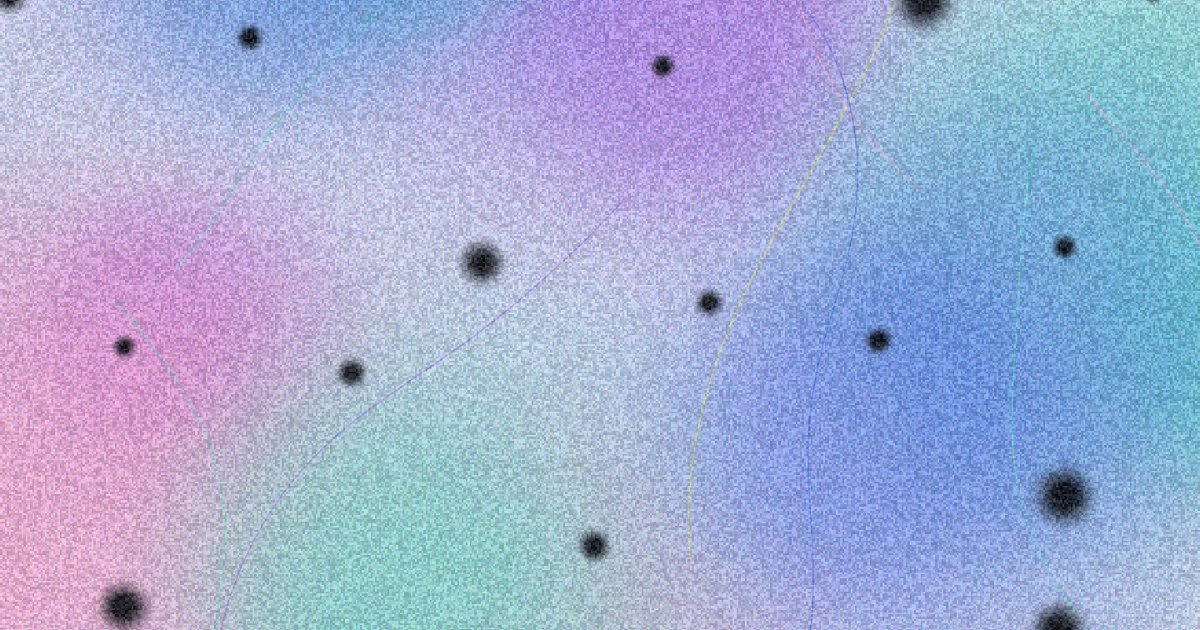
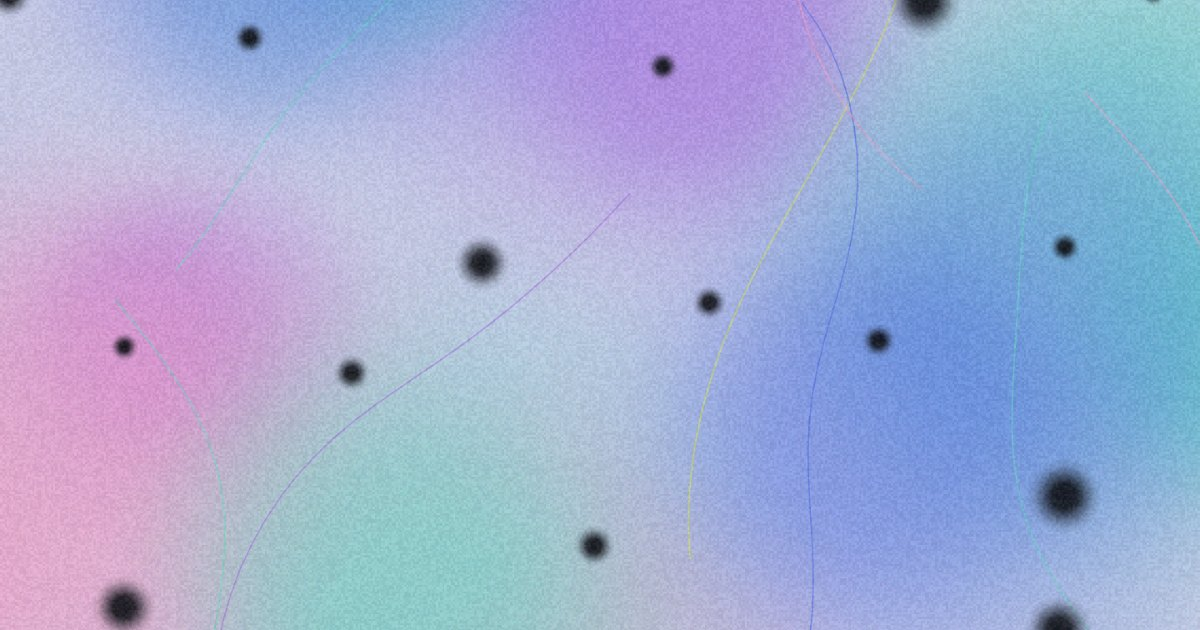
Haze opens at 15% grain, and loses the Drift movement
Grain was set where it matched the reference poster; as a default for a tool
it buried the colour. Drift goes entirely rather than being hidden — the
offset it added to every bloom, hairline and mark goes with it, so nothing is
left carrying an offset that is always zero. Breathe is now what Animate
opens on.

Claude-Session: https://claude.ai/code/session_01Hb5jk9z6h4o1AzZNFzskh6

diff --git a/haze/index.html b/haze/index.html
@@ -519,7 +519,7 @@ input[type=range]{accent-color:var(--ink)}
         <div class="pr"><div class="top"><span class="k">Length</span><span class="v" id="llenVal">80%</span></div><div class="track"><input type="range" id="llen" min="0" max="1" step="0.01" value="0.8"></div></div>
         <div class="pr"><div class="top"><span class="k">Wander</span><span class="v" id="wanderVal">45%</span></div><div class="track"><input type="range" id="wander" min="0" max="1" step="0.01" value="0.45"></div></div>
         <div class="pr"><div class="top"><span class="k">Weight</span><span class="v" id="weightVal">35%</span></div><div class="track"><input type="range" id="weight" min="0" max="1" step="0.01" value="0.35"></div></div></div></details>
-    <details class="grp"><summary>Grain</summary><div class="grp-b"><div class="pr"><div class="top"><span class="k">Amount</span><span class="v" id="grainVal">45%</span></div><div class="track"><input type="range" id="grain" min="0" max="1" step="0.01" value="0.45"></div></div>
+    <details class="grp"><summary>Grain</summary><div class="grp-b"><div class="pr"><div class="top"><span class="k">Amount</span><span class="v" id="grainVal">15%</span></div><div class="track"><input type="range" id="grain" min="0" max="1" step="0.01" value="0.15"></div></div>
         <div class="pr"><div class="top"><span class="k">Size</span><span class="v" id="gsizeVal">14%</span></div><div class="track"><input type="range" id="gsize" min="0" max="1" step="0.01" value="0.14"></div></div>
         <div class="pr"><div class="top"><span class="k">Colour</span><span class="v" id="gcolVal">30%</span></div><div class="track"><input type="range" id="gcol" min="0" max="1" step="0.01" value="0.3"></div></div></div></details></div>
     <div class="l-bot"><details class="grp" open><summary>Color</summary><div class="grp-b"><div class="misc"><span class="mhead"><span class="k">Inks</span><span class="v" id="swCountVal">8</span></span><span class="mval"><div class="sw-grid" id="swatches"></div></span></div>
@@ -612,7 +612,7 @@ function relLum(h){const[r,g,b]=hex2rgb(h).map(v=>{v/=255;return v<=.03928?v/12.
 
 const RATIOS=[{id:"9:16",w:9,h:16},{id:"3:4",w:3,h:4},{id:"4:5",w:4,h:5},{id:"1:1",w:1,h:1},
  {id:"5:4",w:5,h:4},{id:"4:3",w:4,h:3},{id:"3:2",w:3,h:2},{id:"16:9",w:16,h:9}];
-const MODES=[["drift","Drift"],["breathe","Breathe"],["shimmer","Shimmer"]];
+const MODES=[["breathe","Breathe"],["shimmer","Shimmer"]];
 /* What a dark mark looks like: a core with a fuzzy halo, a clean disc, or a
    halo with nothing in the middle. */
 const SHAPES=[["soft","Soft"],["hard","Hard"],["ring","Ring"]];
@@ -632,9 +632,9 @@ const S={
   blooms:11, bsize:0.55, bsoft:0.5, bint:0.62,
   dots:15, dsize:0.4, dvary:0.55, mark:"soft",
   lines:14, llen:0.8, wander:0.45, weight:0.35,
-  grain:0.45, gsize:0.14, gcol:0.3,
+  grain:0.15, gsize:0.14, gcol:0.3,
   pal:PALETTES[0].slice(),
-  motion:{on:false,mode:"drift",amount:0.6,fps:12,frames:36},
+  motion:{on:false,mode:"breathe",amount:0.6,fps:12,frames:36},
   size_px:2400
 };
 
@@ -783,8 +783,6 @@ function paint(c,W,H,f){
      sine is already back at its starting size at the half-loop, which spends
      half of every loop repeating the first half */
   const swell=(M.on&&M.mode==="breathe") ? 1+(1-Math.cos(ph))*0.5*M.amount*0.45 : 1;
-  const dr=(M.on&&M.mode==="drift") ? M.amount*0.05 : 0;
-  const ox=Math.cos(ph)*dr, oy=Math.sin(ph)*dr;
 
   c.setTransform(1,0,0,1,0,0);
   c.globalCompositeOperation="source-over";
@@ -801,7 +799,7 @@ function paint(c,W,H,f){
     const col=inks[s.k%inks.length];
     const R=Math.max(2,s.r*bs*U);
     for(const L of s.lobes){
-      const x=(s.x+ox)*U+L[0]*R, y=(s.y+oy)*U+L[1]*R, r=Math.max(2,R*L[2]);
+      const x=s.x*U+L[0]*R, y=s.y*U+L[1]*R, r=Math.max(2,R*L[2]);
       const g=c.createRadialGradient(x,y,0,x,y,r);
       sprayH(g,col,lobeA,S.bsoft);
       c.fillStyle=g;
@@ -817,8 +815,8 @@ function paint(c,W,H,f){
       const p=L.pts;
       c.strokeStyle=rgbaH(inks[L.k%inks.length],0.62);
       c.beginPath();
-      c.moveTo((p[0]+ox)*U,(p[1]+oy)*U);
-      for(let j=1;j*2<p.length;j++) c.lineTo((p[j*2]+ox)*U,(p[j*2+1]+oy)*U);
+      c.moveTo(p[0]*U,p[1]*U);
+      for(let j=1;j*2<p.length;j++) c.lineTo(p[j*2]*U,p[j*2+1]*U);
       c.stroke();
     }
   }
@@ -831,7 +829,7 @@ function paint(c,W,H,f){
        which is what stops them reading as one even rank of dots */
     const v=m.g*m.g;
     const r=Math.max(1.2,ds*(1+(v*2.6-0.35)*S.dvary)*U*swell);
-    const x=(m.x+ox)*U, y=(m.y+oy)*U;
+    const x=m.x*U, y=m.y*U;
     const g=c.createRadialGradient(x,y,0,x,y,r);
     markH(g,dark,0.94,kind);
     c.fillStyle=g;
